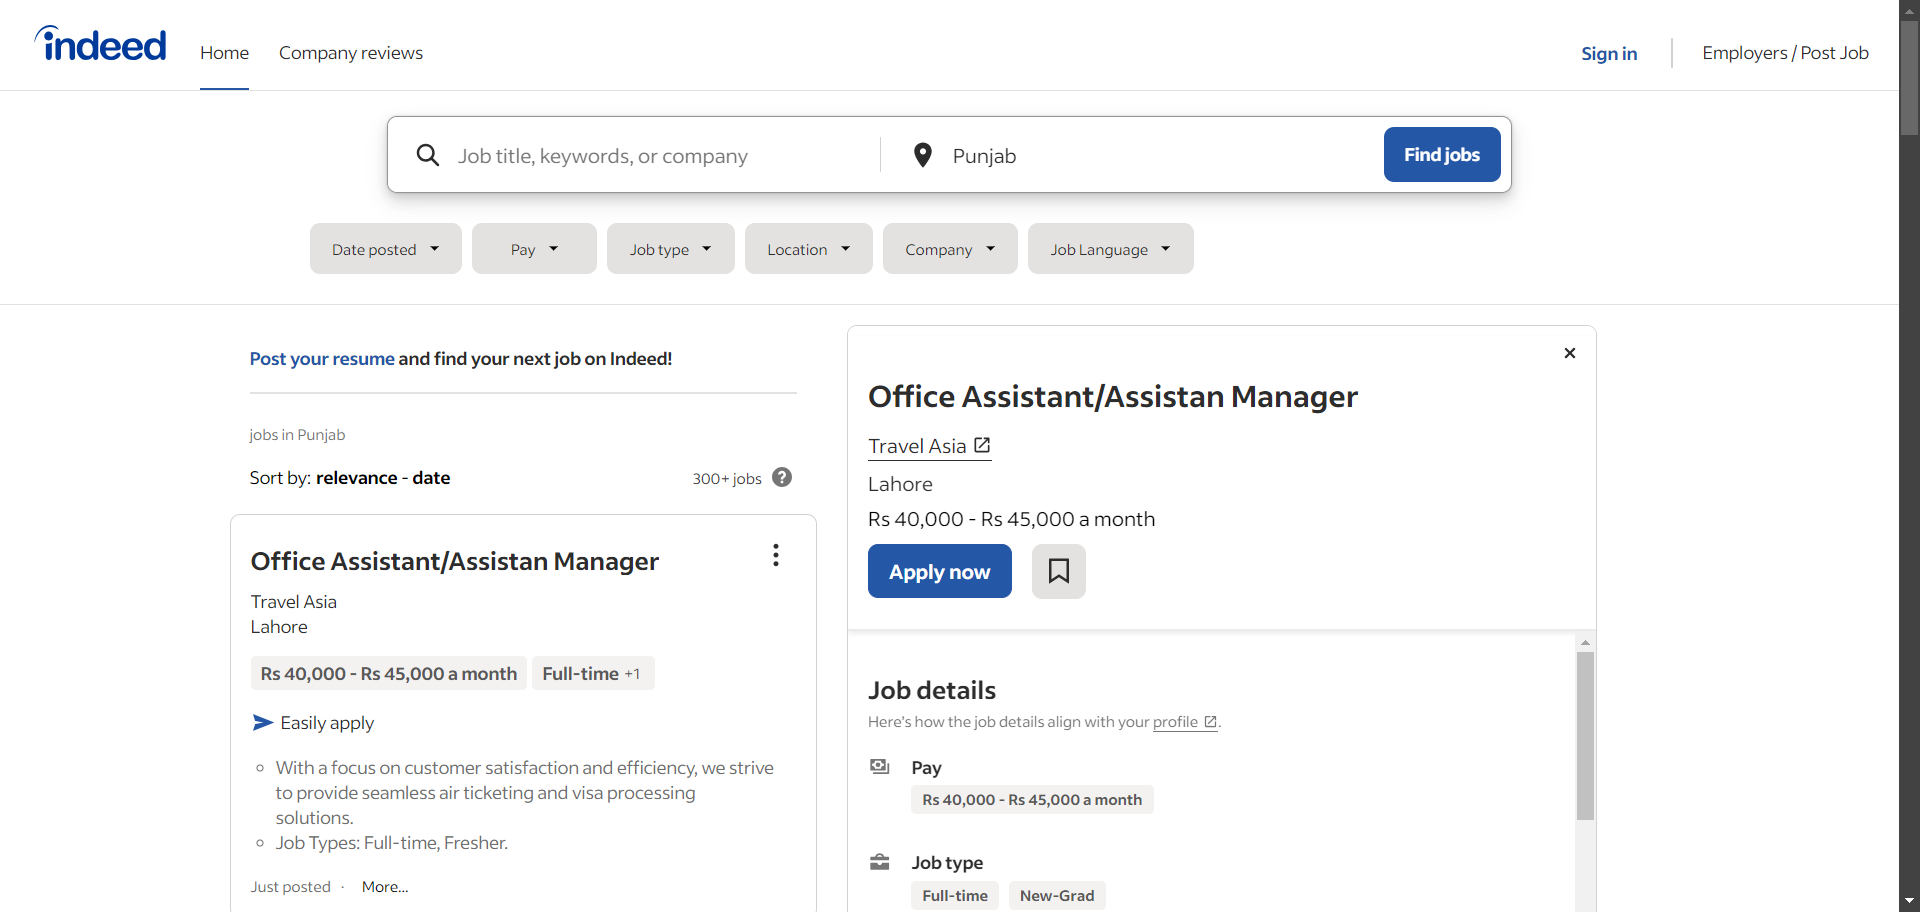
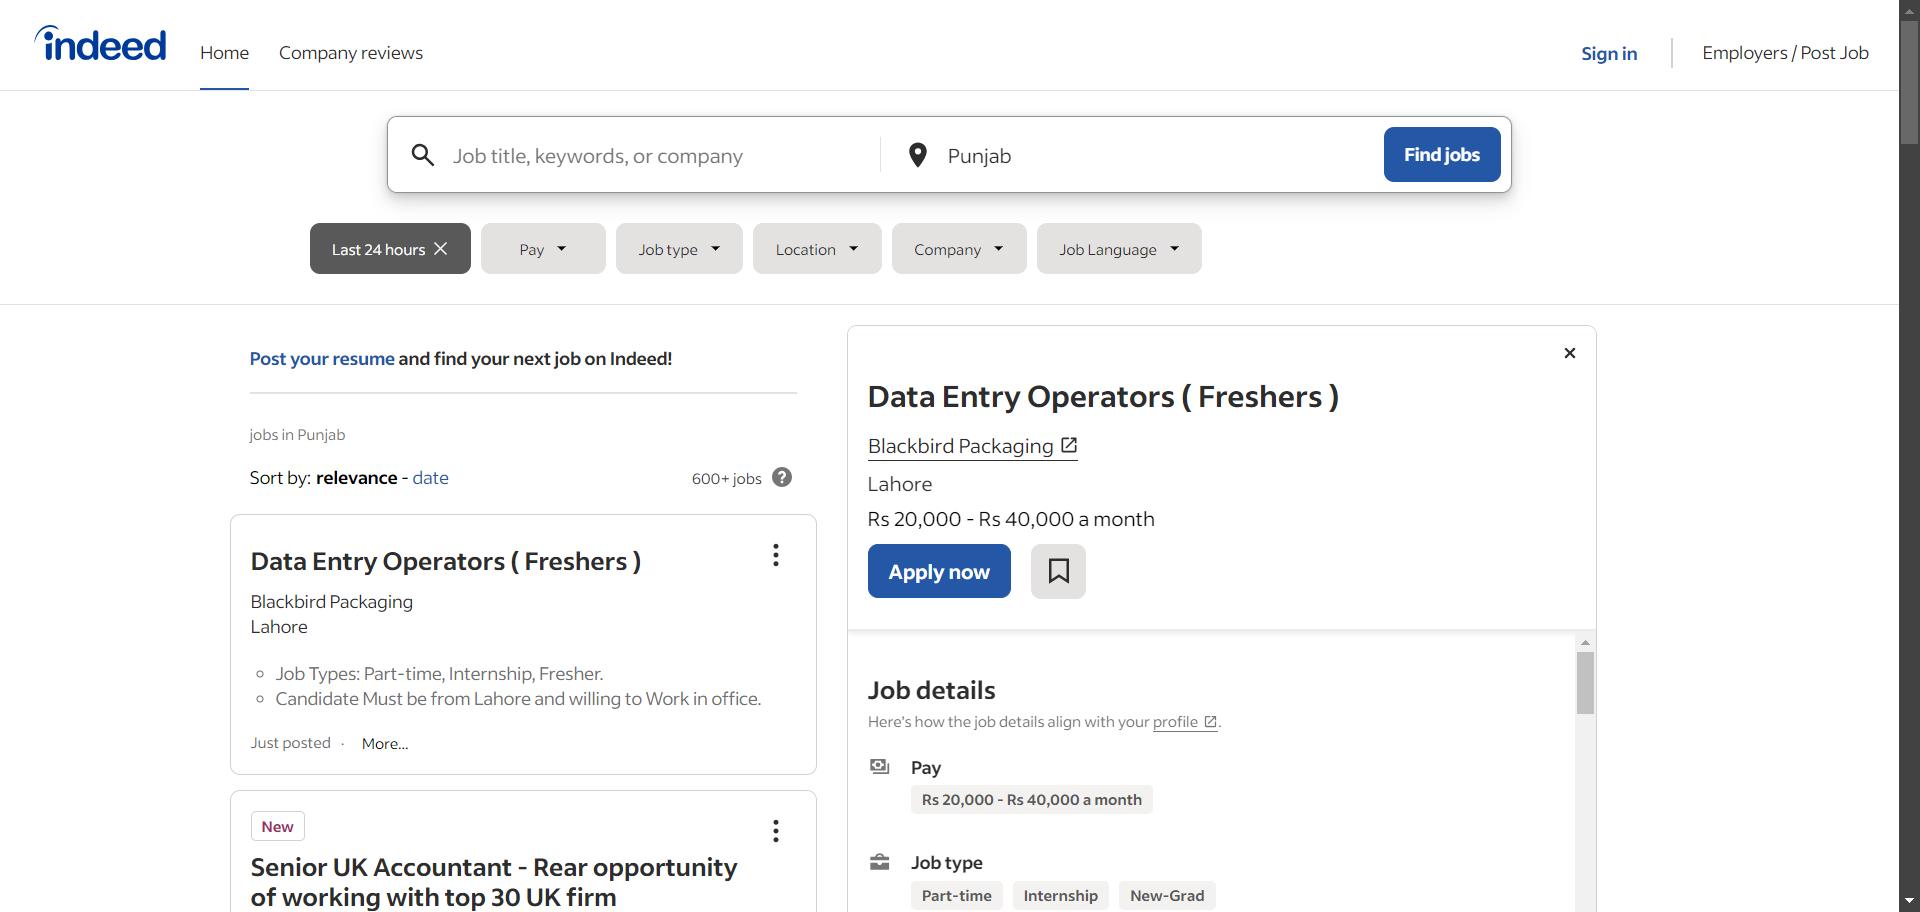
latest

diff --git a/job_scraper_utils.py b/job_scraper_utils.py
@@ -10,6 +10,7 @@ from selenium.webdriver.common.by import By
 from selenium_stealth import stealth
 from selenium.webdriver.chrome.service import Service as ChromeService
 from webdriver_manager.chrome import ChromeDriverManager
+import undetected_chromedriver as uc
 
 global total_jobs
 
@@ -18,7 +19,7 @@ def get_random_user_agent():
     user_agents = [
         "Mozilla/5.0 (Windows NT 10.0; Win64; x64) AppleWebKit/537.36 (KHTML, like Gecko) Chrome/91.0.4472.124 Safari/537.36",
         "Mozilla/5.0 (Macintosh; Intel Mac OS X 10.15; rv:90.0) Gecko/20100101 Firefox/90.0",
-        # Add more user agents here
+        "Mozilla/5.0 (X11; Linux x86_64) AppleWebKit/537.36 (KHTML, like Gecko) Chrome/91.0.4472.124 Safari/537.36",
     ]
     return random.choice(user_agents)
 
@@ -27,9 +28,11 @@ def configure_webdriver():
     options = webdriver.ChromeOptions()
     options.add_argument("--start-maximized")
     options.add_argument(f"user-agent={get_random_user_agent()}")
-    options.add_experimental_option("excludeSwitches", ["enable-automation"])
-    options.add_experimental_option('useAutomationExtension', False)
-    driver = webdriver.Chrome(service=ChromeService(ChromeDriverManager().install()), options=options)
+    options.add_argument('--disable-popup-blocking')
+    # options.add_experimental_option("excludeSwitches", ["enable-automation"])
+    # options.add_experimental_option('useAutomationExtension', False)
+    options.add_argument("--disable-blink-features=AutomationControlled")
+    driver = uc.Chrome(service=ChromeService(ChromeDriverManager().install()), options=options)
 
     stealth(driver,
             languages=["en-US", "en"],
@@ -38,6 +41,7 @@ def configure_webdriver():
             webgl_vendor="Intel Inc.",
             renderer="Intel Iris OpenGL Engine",
             fix_hairline=True,
+            run_on_insecure_origins=True
             )
     return driver
 
@@ -47,6 +51,8 @@ def search_jobs(driver, country, job_position, job_location, date_posted):
     print(full_url)
     driver.get(full_url)
     global total_jobs
+    time.sleep(random.uniform(3, 7))
+
     try:
         job_count_element = driver.find_element(By.XPATH,
                                                 '//div[starts-with(@class, "jobsearch-JobCountAndSortPane-jobCount")]')
@@ -57,7 +63,7 @@ def search_jobs(driver, country, job_position, job_location, date_posted):
         print("No job count found")
         total_jobs = "Unknown"
 
-    driver.save_screenshot('screenshot.png')
+    # driver.save_screenshot('screenshot.png')
     return full_url
 
 
@@ -78,12 +84,11 @@ def scrape_job_data(driver, country):
             link_full = country + link
 
             # Open the link in a new tab
-            # Open the link in a new tab
             driver.execute_script("window.open('');")
+            time.sleep(1)
             driver.switch_to.window(driver.window_handles[1])
             driver.get(link_full)
-            # time.sleep(random.uniform(3, 7))
-            time.sleep(10)
+            time.sleep(random.uniform(3, 7))
             with open(f'job_pages/job_page{count+index}.html', 'w', encoding='utf-8') as f:
                 f.write(BeautifulSoup(driver.page_source, 'lxml').prettify())
 
@@ -105,6 +110,7 @@ def scrape_job_data(driver, country):
             time.sleep(random.uniform(2, 5))
 
         except:
+            print("Some Error Occurred")
             break
 
 

diff --git a/main.py b/main.py
@@ -44,7 +44,7 @@ def main():
     country = pakistan
     job_position = ''
     job_location = 'Punjab'
-    date_posted = 0
+    date_posted = 1
 
     df = None
     try:
